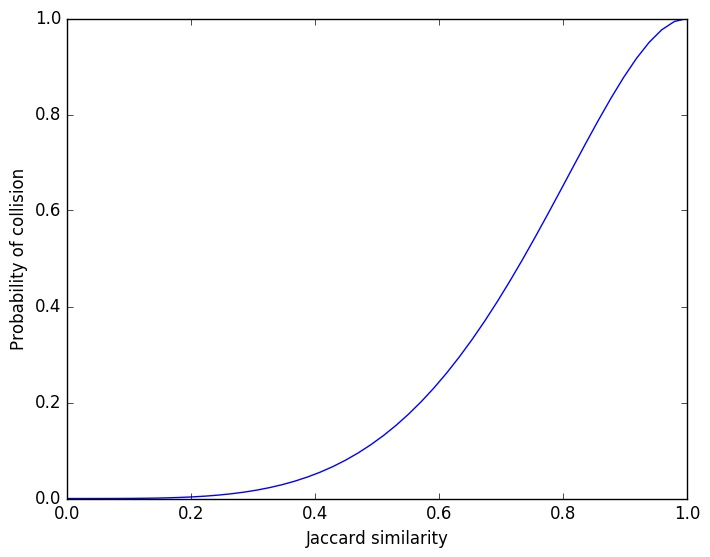
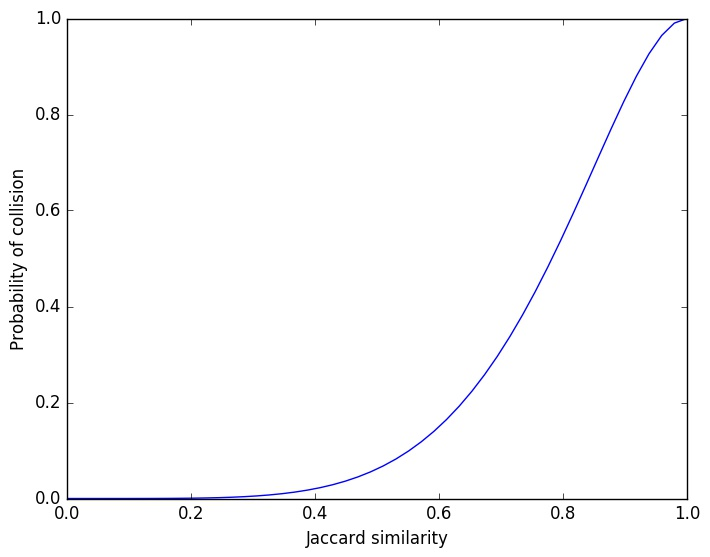
change values for n,b,r params

diff --git a/hw02/hashing.py b/hw02/hashing.py
@@ -5,10 +5,10 @@ import itertools
 import random
 
 
-DOCS_MINHASH_SIZE = 8       # n = br
+DOCS_MINHASH_SIZE = 10      # n = br >= log(corpus_size)
 JACCARD_THRESHOLD = 0.8     # t = (1/b)^(1/r)
 BANDS = 2                   # b
-ROWS_PER_BAND = 4           # r
+ROWS_PER_BAND = 5           # r
 
 MAX_HASH_ID_LENGTH = 20                     # max num of decimal digits for hash member id
 MAX_HASH_ID = 10**MAX_HASH_ID_LENGTH - 1    # max hash member id
@@ -33,8 +33,8 @@ def hash_family(i, hash_size=DOCS_MINHASH_SIZE):
 
 def minwise_hashing(sets):
     """
-    Given a collection of sets of objects (e.g., strings, or numbers), creates
-    a minwise hashing based signature for each set.
+    Given a collection of sets of objects (e.g., strings, or numbers),
+    creates a minwise hashing based signature for each set.
     """
     random_hash_ids = _pick_random_numbers(BANDS, MAX_HASH_ID)
 
@@ -57,7 +57,7 @@ def minwise_hashing(sets):
                 hash_code = hash_function(shingle)
 
                 if j == 0:
-                    min_hash=hash_code
+                    min_hash = hash_code
 
                 # Track the lowest hash code seen (lexicographic).
                 if hash_code < min_hash:
